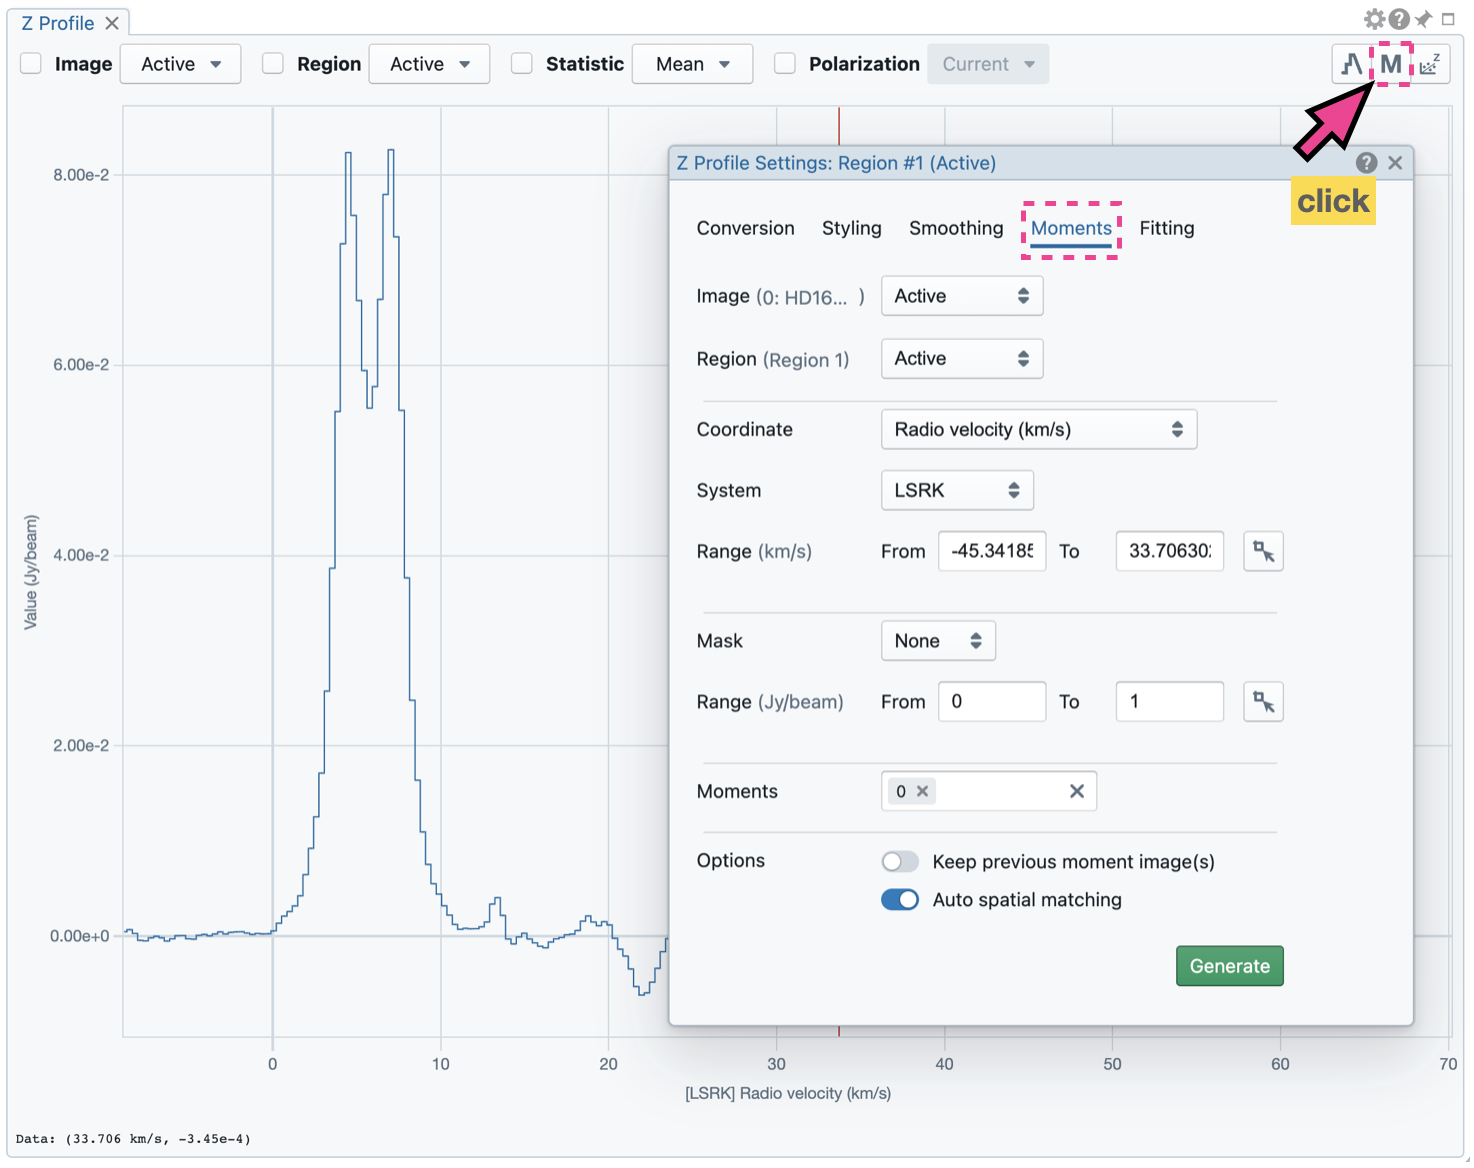
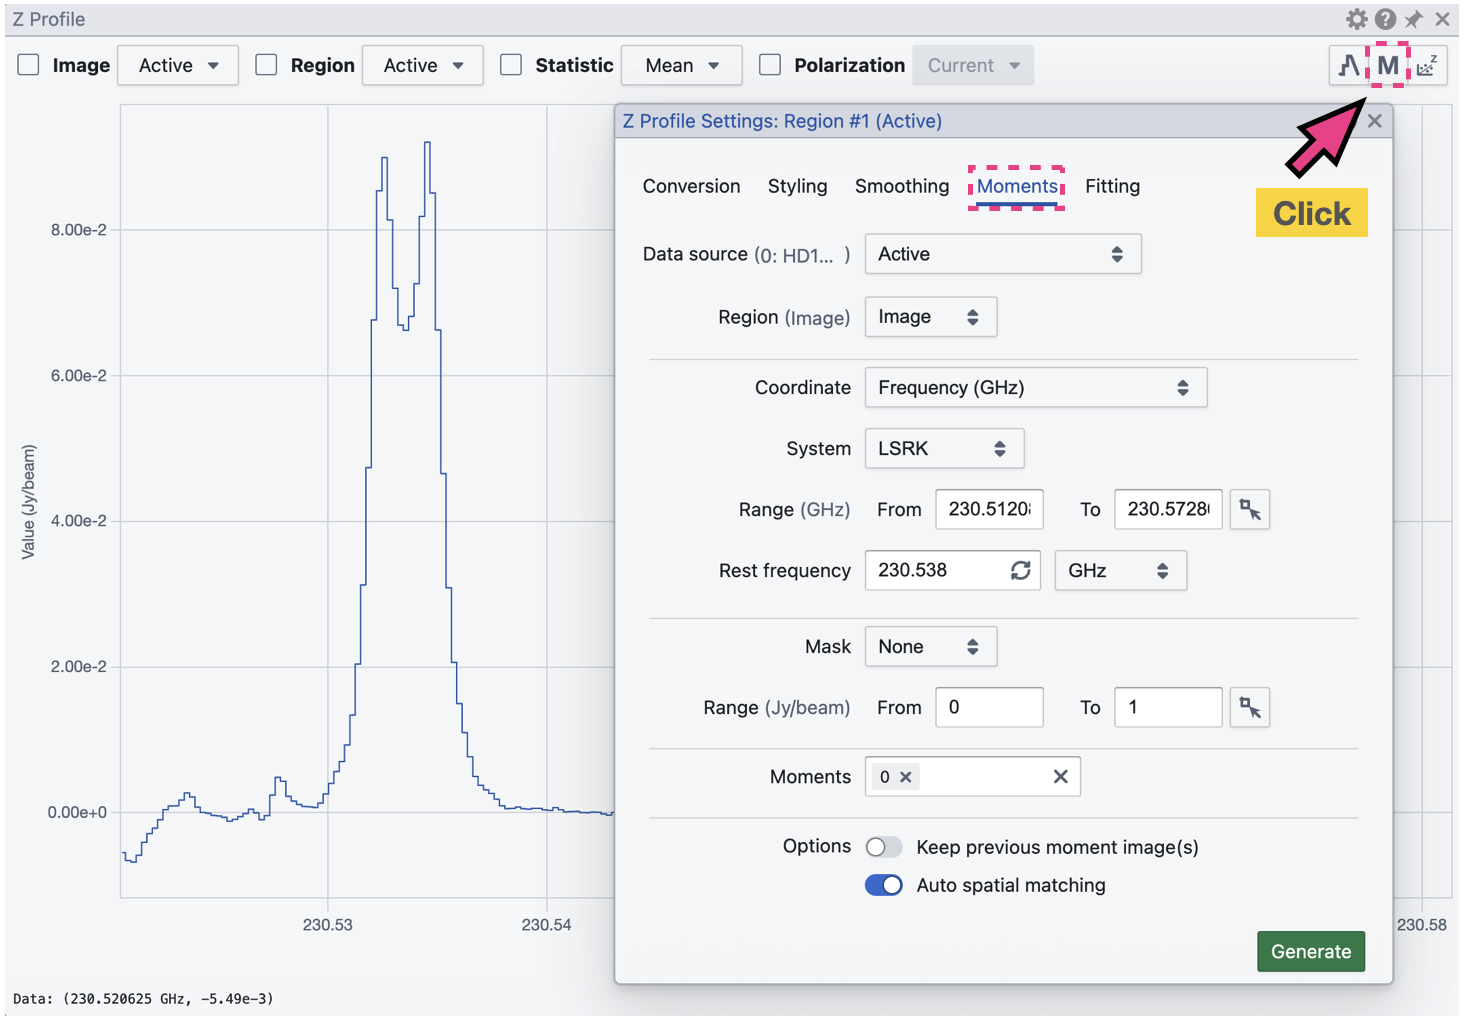
update moment generator

diff --git a/source/moment_generator.rst b/source/moment_generator.rst
@@ -12,11 +12,16 @@ Moment images (i.e., collapsed cube along the spectral axis) can be generated an
            style="width:100%;height:auto;">
    </a>
 
+
+Control parameters
+------------------
+
 The "**Moments**" tab provides several control parameters to define how moment images are calculated, including:
                 
-* **Image**: The input image file for moment calculations. "Active" refers to the image displayed in the Image Viewer.
+* **Data source**: The input image file for moment calculations. "Active" refers to the image displayed in the Image Viewer.
 * **Region**: A region can be selected so that moment calculations are limited inside the region. "Active" refers to the selected region in the Image Viewer. The full image is included in the moment calculations if no region is selected.
 * **Coordinate**, **System**, and **Range**: The spectral range (e.g., velocity range) used for moment calculations is defined with these options. The range can be defined via the text input fields or the cursor by dragging horizontally in the Spectral Profiler Widget.
+* **Rest frequency**: If the coordinate is set to radio or optical velocity, the displayed rest frequency as defined in the image header is used for the velocity conversion. You can apply a new rest frequency to re-compute the velocity conversion. This is equivalent to :ref:`set_new_rest_frequency_for_velocity_matching` in the Image List Widget. 
 * **Mask** and **Range**: These options define a pixel value range used for moment calculations. If the mask is "None", all pixels are included. If the mask is "Include" or "Exclude", the pixel value range defined in the text input fields is included or excluded, respectively. Alternatively, the pixel value range can be defined via the cursor by dragging vertically in the Spectral Profiler Widget.
 * **Moments**: The moment images to be calculated are defined here. Supported options are:
                         
@@ -34,7 +39,21 @@ The "**Moments**" tab provides several control parameters to define how moment i
   - 10: Minimum value of the spectrum
   - 11: Coordinate of the minimum value of the spectrum
 
+There are also options to
 
+- keep previously generated moment images in the Image Viewer
+- apply spatial matching to the generated moment images automatically (if the original input image is the spatial reference)
+
+
+.. note::
+   Regardless of the selected coordinate for specifying a spectral range for the moment image calculations, CARTA will compute the corresponding spectral range in the channel indices. Whole channel is used for the moment image calculations. There is no sub-channel interpolation in the calculations.
+
+
+
+
+
+Trigger moment calculations and visualize results
+-------------------------------------------------
 When all the parameters are defined, moment calculations will begin by clicking the "**Generate**" button. Depending on the file size, moment calculations may take a while. If that happens, you may optionally cancel the calculations and redefine a region and a spectral range.
 
 .. raw:: html
@@ -51,4 +70,4 @@ Once generated, images will be appended, displayed, and spatially matched (optio
    In a resumed session after a broken connection to the backend, all in-memory images, such as those generated with the Moment Map Generator, are lost. Those images will not be accessible in the resumed session.
 
 .. note::
-   As of v4.1.0, the moment images are computed along the spectral axis only. In future release, calculations along other axes will be provided (e.g., R.A.). 
+   As of v5.0.0, the moment images are computed along the spectral axis only. In future release, calculations along other axes will be provided (e.g., R.A.). 
